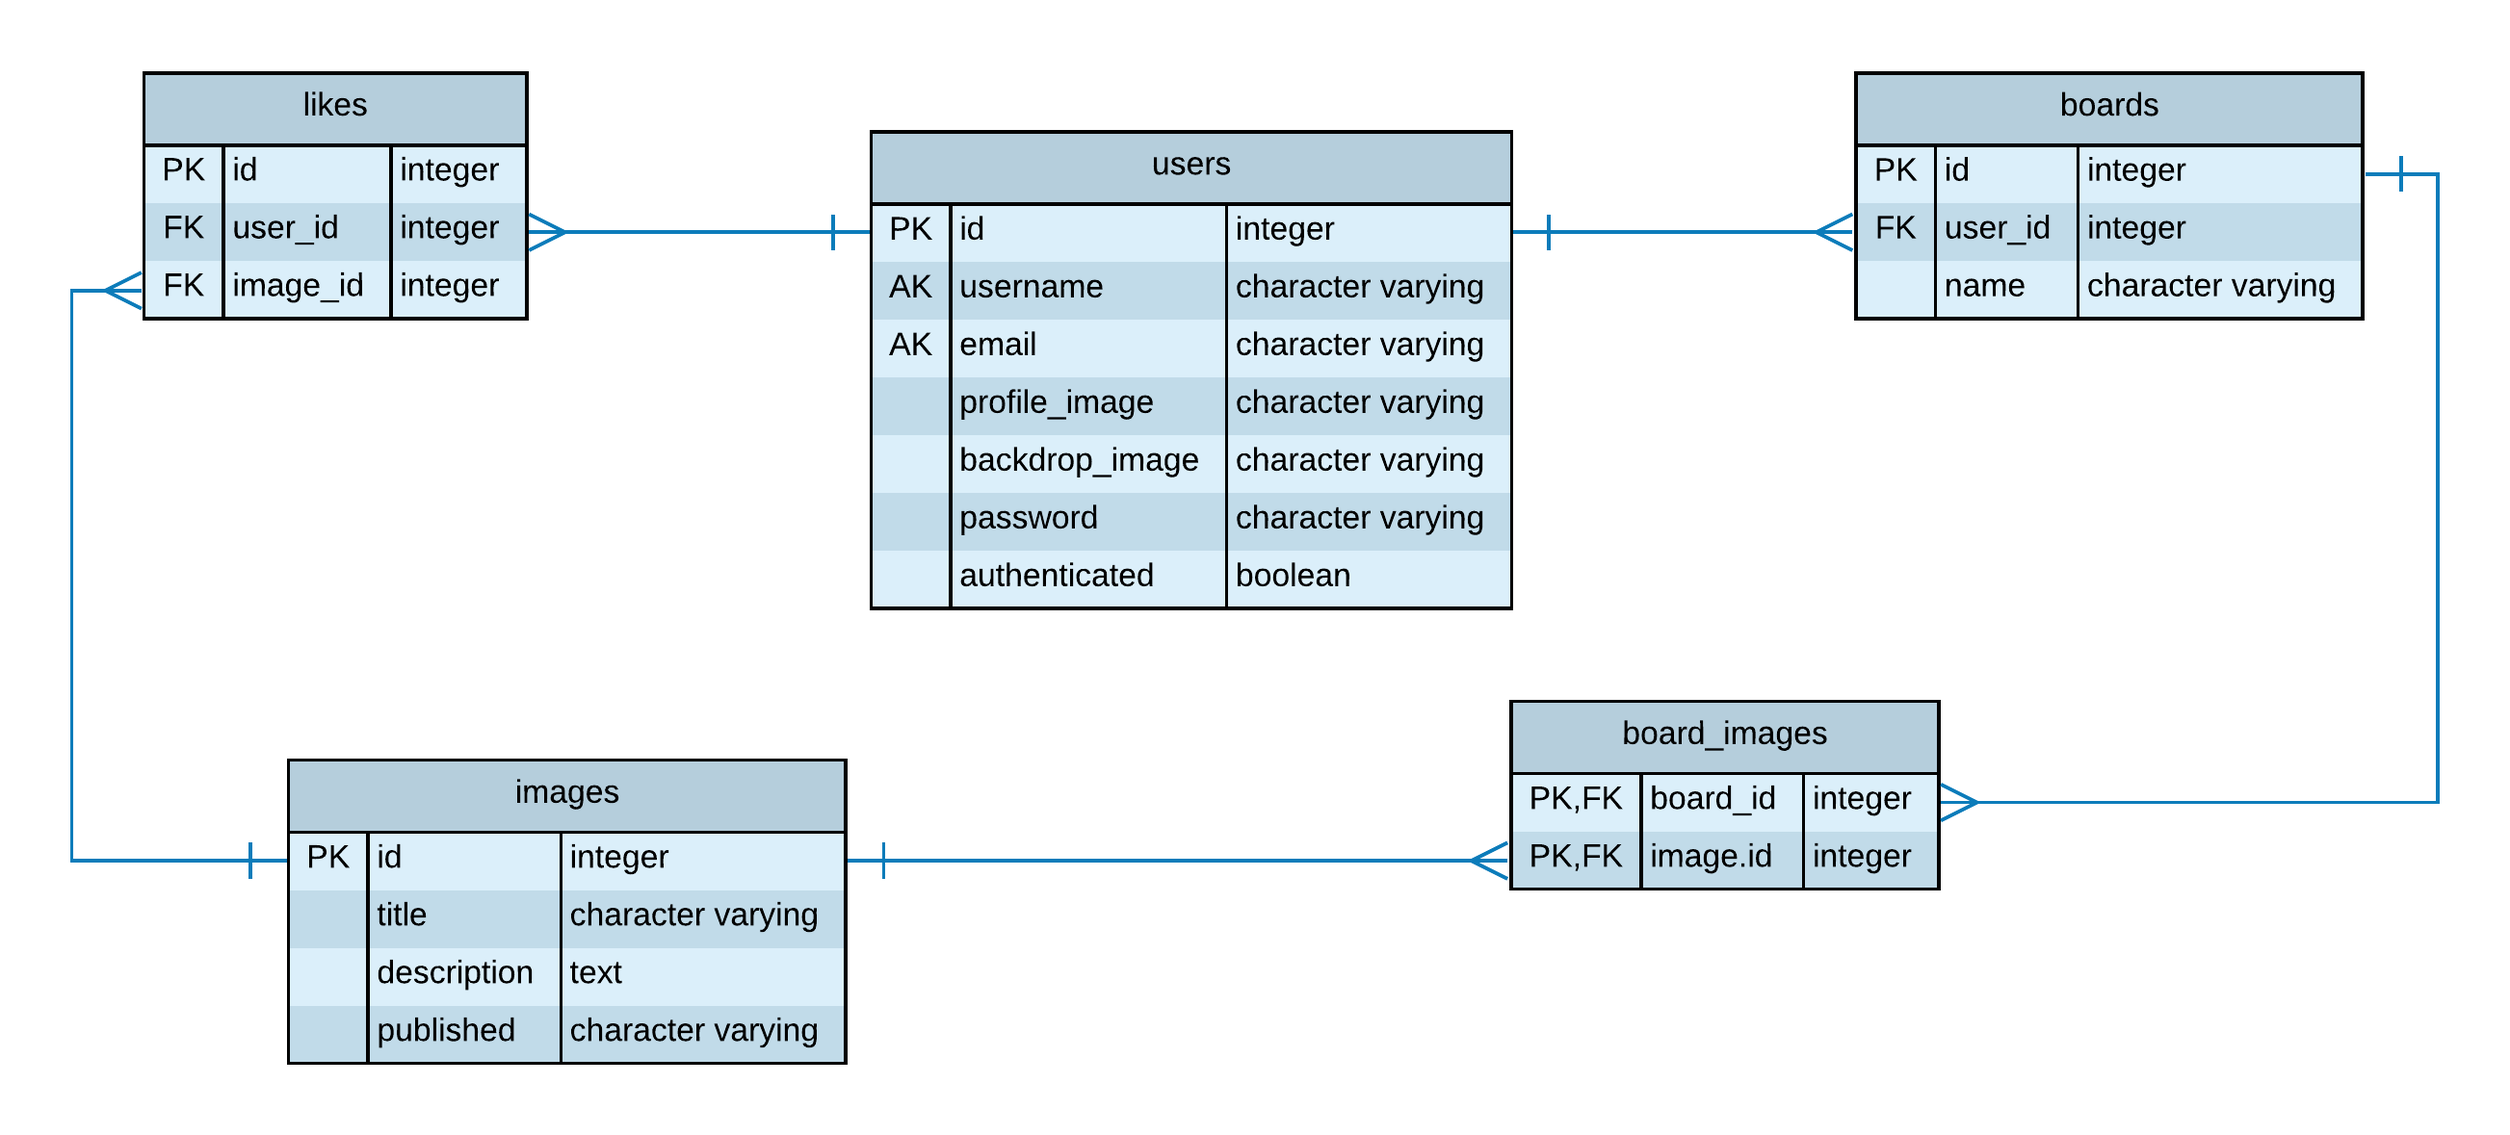
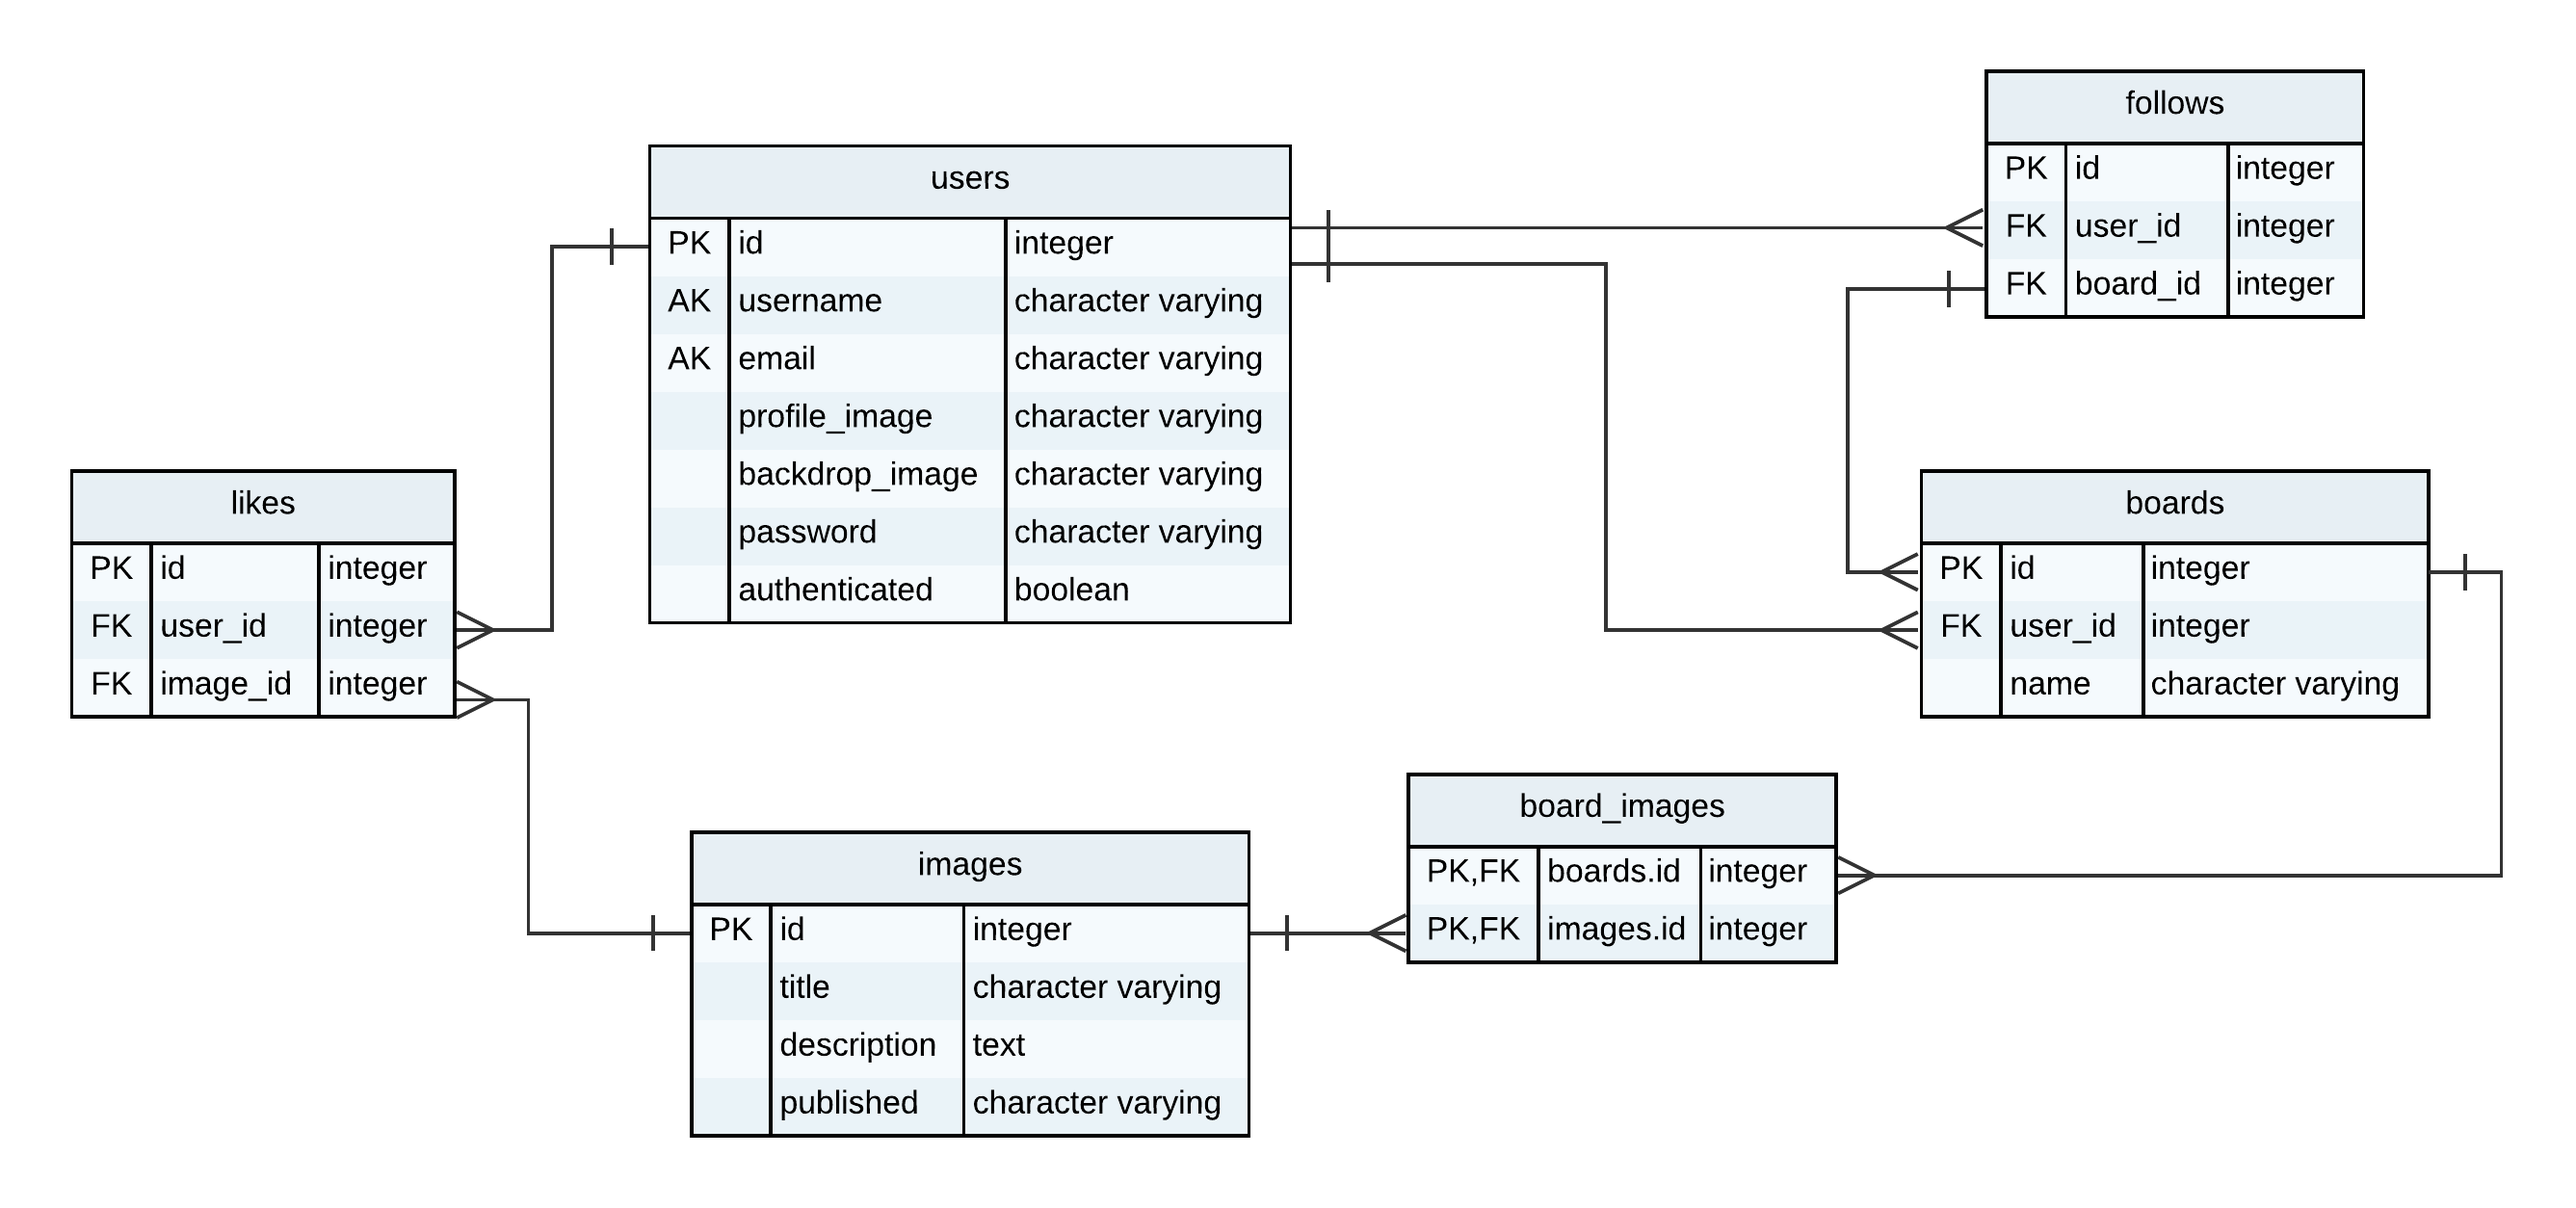
added Follow to models, troubleshooted seed.py and db cascade errors, updated user login route

diff --git a/templates/base.html b/templates/base.html
@@ -1,3 +1,4 @@
+
 <!DOCTYPE html>
 <html lang="en">
 
@@ -16,6 +17,30 @@
 </head>
 
 <body>
+
+    <nav class="navbar navbar-expand-lg navbar-light bg-light">
+        <a class="navbar-brand" href="#">Navbar</a>
+        <button class="navbar-toggler" type="button" data-toggle="collapse" data-target="#navbarNav" aria-controls="navbarNav" aria-expanded="false" aria-label="Toggle navigation">
+            <span class="navbar-toggler-icon"></span>
+        </button>
+        <div class="collapse navbar-collapse" id="navbarNav">
+            <ul class="navbar-nav">
+            <li class="nav-item active">
+                <a class="nav-link" href="'/'">Home <span class="sr-only">(current)</span></a>
+            </li>
+            <li class="nav-item">
+                <a class="nav-link" href="/login">Login</a>
+            </li>
+            <li class="nav-item">
+                <a class="nav-link" href="/logout">Register</a>
+            </li>
+            <li class="nav-item">
+                <a class="nav-link disabled" href="#" tabindex="-1" aria-disabled="true">Disabled</a>
+            </li>
+            </ul>
+        </div>
+    </nav>
+
     <main id="content">
         {% block content %}
         {% endblock %}

diff --git a/templates/navbar.html b/templates/navbar.html
@@ -1,0 +1,27 @@
+{% extends 'bootstrap/base.html' %}
+
+{% block navbar %}
+    <nav class="navbar navbar-expand-lg navbar-light bg-light">
+    <a class="navbar-brand" href="#">Navbar</a>
+    <button class="navbar-toggler" type="button" data-toggle="collapse" data-target="#navbarNav" aria-controls="navbarNav" aria-expanded="false" aria-label="Toggle navigation">
+        <span class="navbar-toggler-icon"></span>
+    </button>
+    <div class="collapse navbar-collapse" id="navbarNav">
+        <ul class="navbar-nav">
+        <li class="nav-item active">
+            <a class="nav-link" href="'/'">Home <span class="sr-only">(current)</span></a>
+        </li>
+        <li class="nav-item">
+            <a class="nav-link" href="/login">Login</a>
+        </li>
+        <li class="nav-item">
+            <a class="nav-link" href="/logout">Register</a>
+        </li>
+        <li class="nav-item">
+            <a class="nav-link disabled" href="#" tabindex="-1" aria-disabled="true">Disabled</a>
+        </li>
+        </ul>
+    </div>
+    </nav>
+
+{% endblock %}

diff --git a/templates/user/logout.html b/templates/user/logout.html
@@ -17,3 +17,9 @@
     </div>
 
 {% endblock %}
+
+# smithsonian API
+api_key = "AhgfyfDDNIzoNxf70E1sQrjhjn2wYbr216soHE0w"
+
+# flask session secret key
+secret_key = b'\xa3\x15A\xd57\x8a\xc1@7\xb35z\x8fC\x0c\xc2'

diff --git a/templates/homepage.html b/templates/homepage.html
@@ -1,4 +1,4 @@
-{% extends 'bootstrap/base.html' %}
+{% extends 'base.html' %}
 
 {% block title %}Welcome{% endblock %}
 

diff --git a/models.py b/models.py
@@ -62,14 +62,10 @@ class User(UserMixin, db.Model):
                              backref=db.backref('user'),
                              cascade='all, delete-orphan' 
                              )
- 
-    # likes = db.relationship("Like",
-    #                         backref=db.backref('user',
-    #                         cascade="all, delete-orphan"
-    #                         ))
     
-    likes = db.relationship("Like",
-                            backref=db.backref('user'))
+    # like_image = db.relationship("Like",
+    #                         backref=db.backref('user')
+    #                         )
     
     
     # @classmethod
@@ -93,17 +89,11 @@ class User(UserMixin, db.Model):
     #     """True, as all users are active."""
     #     return True
 
-    # def get_id(self):
-    #     """Return the email address to satisfy Flask-Login's requirements."""
-    #     return self.email
 
     # def is_authenticated(self):
     #     """Return True if the user is authenticated."""
     #     return self.authenticated
 
-    # def is_anonymous(self):
-    #     """False, as anonymous users aren't supported."""
-    #     return False
 
     @classmethod
     def create(cls, username, email, profile_image, backdrop_image, password):
@@ -123,6 +113,15 @@ class User(UserMixin, db.Model):
         # add user to session
         db.session.add(user)
         return user
+    
+    @classmethod
+    def authenticate(cls, username, password):
+        """Valid username and password."""
+        
+        if bcrypt.check_password_hash(user.password, password):
+            return True
+        else:
+            return False
     
     
 class Board(db.Model):
@@ -174,7 +173,7 @@ class Image(db.Model):
 
 
 class Like(db.Model):
-    '''User likes model.'''
+    '''User likes for images model.'''
 
     __tablename__ = 'likes'
 
@@ -195,6 +194,32 @@ class Like(db.Model):
         db.Integer,
         db.ForeignKey('images.id' 
                     #   ondelete='CASCADE'
+                      )
+    )
+    
+
+class Follow(db.Model):
+    '''User following boards model.'''
+
+    __tablename__ = 'follows'
+
+    id = db.Column(
+        db.Integer,
+        primary_key=True
+    )
+
+    user_id = db.Column(
+        db.Integer,
+        # db.ForeignKey('users.id', cascade="all, delete-orphan"),
+        db.ForeignKey('users.id',
+                      #   ondelete='CASCADE'
+                      )
+    )
+
+    board_id = db.Column(
+        db.Integer,
+        db.ForeignKey('images.id'
+                      #   ondelete='CASCADE'
                       )
     )
 

diff --git a/app.py b/app.py
@@ -7,9 +7,10 @@ from flask_debugtoolbar import DebugToolbarExtension
 from flask_bootstrap import Bootstrap
 from flask_login import LoginManager, UserMixin
 
+
 from user_form import LoginForm, RegisterForm
 from secure import api_key, secret_key
-from models import User, connect_db, db
+from models import User, connect_db, db, Board, Image, Like, Follow, Like
 from seed import seed_database
 
 app = Flask(__name__)
@@ -26,7 +27,7 @@ login_manager.init_app(app)
 Bootstrap(app)
 connect_db(app)
 
-DEBUG = True
+DEBUG = False
 
 if DEBUG:
    seed_database()
@@ -105,11 +106,19 @@ def register():
 @app.route('/login', methods=['GET', 'POST'])
 def login():
    '''Login returning user'''
+   # TODO: validate if user is already authenticated
+   # if current_user.is_authenticated:
+   #     return redirect(url_for('show_boards'))
+   
    form = LoginForm()
    
    if form.validate_on_submit():
-      redirect_url = url_for('show_boards')
-      return redirect(redirect_url)
+      
+      user = User.query.filter_by(username=form.username.data).first()
+      if user and authenticate(user.username, form.password.data): 
+         login_user(user, remember=form.remember.data, authenticated=True)
+
+      return redirect(url_for('show_boards'))
    
    return render_template('login.html', form=form)
 

diff --git a/seed.py b/seed.py
@@ -1,16 +1,16 @@
 from models import db
-from models import User, Like
+from models import User
 
 def seed_database():
-    db.drop_all()
+    # db.drop_all()
     db.create_all()
 
-    # test_user = User(
-    #     username="Ava",
-    #     email="ava@gmail.com", 
-    #     password="password",
-    #     authenticated=True,
-    # )
+    test_user = User(
+        username="Ava",
+        email="ava@gmail.com", 
+        password="password",
+        authenticated=True,
+    )
     
-    # db.session.add(test_user)
-    # db.session.commit()
+    db.session.add(test_user)
+    db.session.commit()

diff --git a/smithsonian_api.py b/smithsonian_api.py
@@ -1,0 +1,5 @@
+"""
+smithsonian_api.py: functions for communicating with the Smithsonian Institute
+OpenAccess API.
+"""
+
